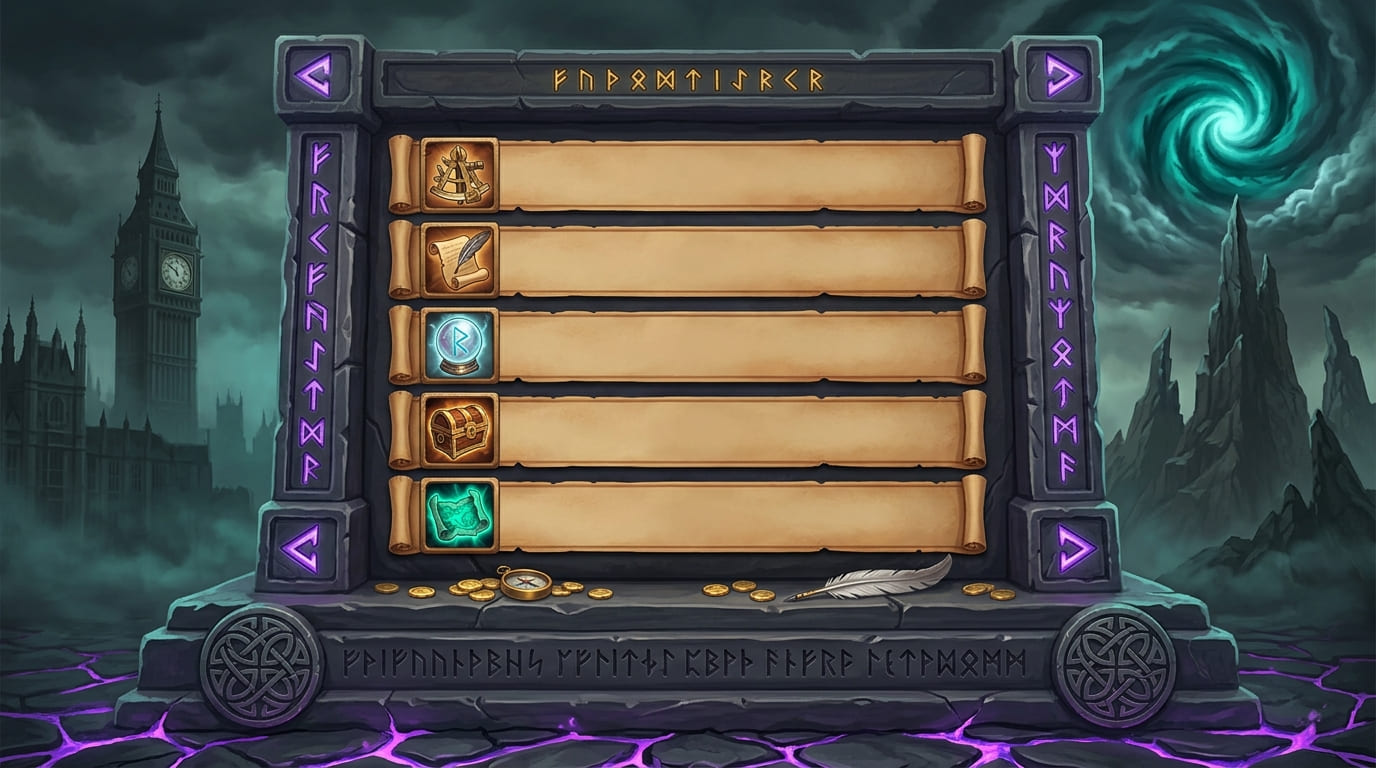
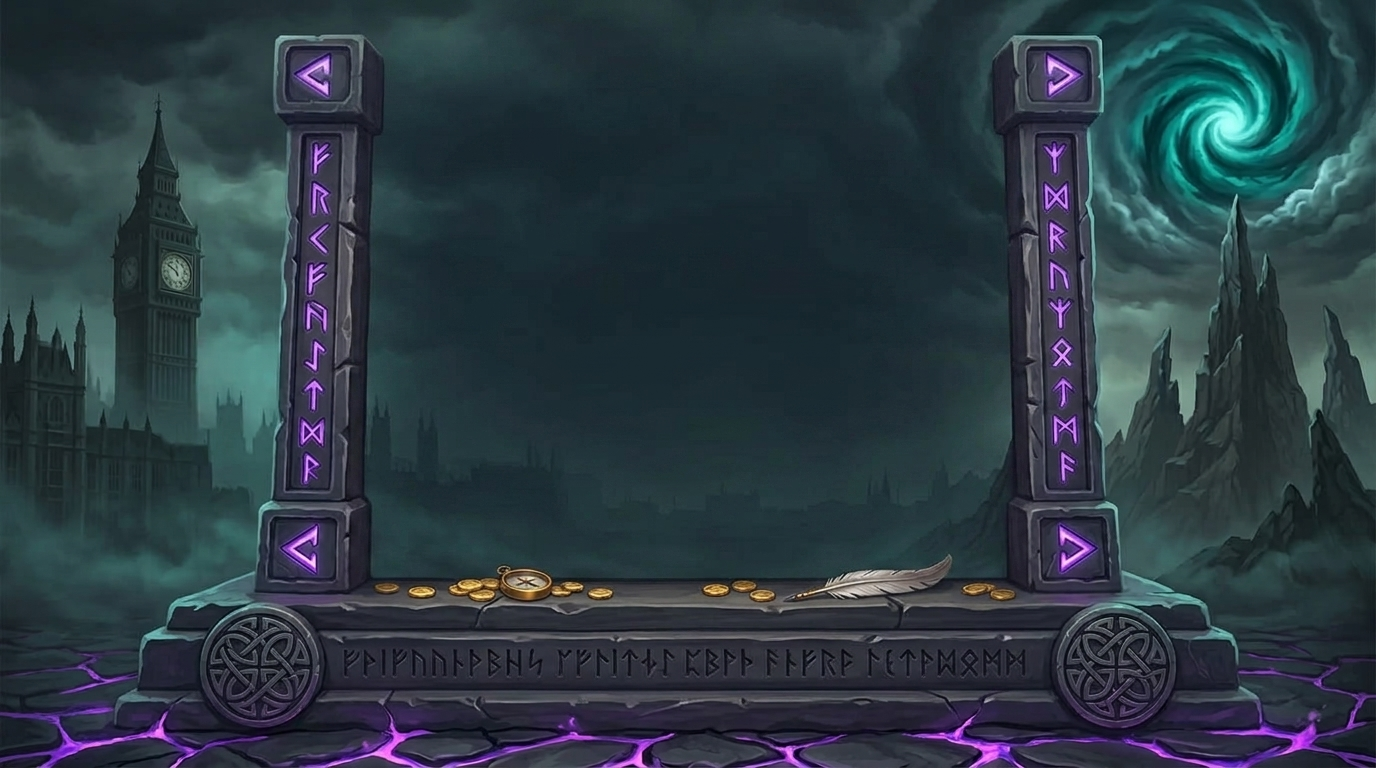
Moodle Codes screen update

Changed region(s): [[0.25, 0.0625, 0.75, 0.7812], [0.6875, 0.9375, 0.7188, 0.9688], [0.5625, 0.9688, 0.5938, 1.0]]

diff --git a/css/moodle-codes.css b/css/moodle-codes.css
@@ -99,41 +99,60 @@
 
 .mc-row {
     position: absolute;
-    /* left edge: just right of the icon, right edge: right side of parchment */
-    left: 40%;
-    right: 26%;
-    height: 9%; /* matches each parchment slot height */
+    left: 30%;
+    height: 13%;
+    width: 49%;
+    background: url('../images/Moodle_Codes_Screen/codes_ribbon.png') center / 100% 100% no-repeat;
     display: flex;
-    flex-direction: column;
-    justify-content: center;
-    gap: 2px;
-    padding: 0 1%;
+    align-items: center;
+    gap: 12px;
+    padding: 0 3% 0 9%; /* left padding makes room for the icon */
 }
 
 .mc-row--1 {
-    top: 13.5%;
-    left: 35.5%;
+    top: 15.5%;
+    left: 25.5%;
 }
 
 .mc-row--2 {
     top: 27.5%;
-    left: 35.5%;
+    left: 25.5%;
 }
 
 .mc-row--3 {
     top: 39.5%;
-    left: 35.5%;
+    left: 25.5%;
 }
 
 .mc-row--4 {
-    top: 52.5%;
-    left: 35.5%;
+    top: 51.5%;
+    left: 25.5%;
 }
 
 .mc-row--5 {
-    top: 64.5%;
-    left: 35.5%;
+    top: 63.5%;
+    left: 25.5%;
 }
+
+.mc-icon {
+    position: absolute;
+    left: 1%;
+    top: 50%;
+    transform: translateY(-50%);
+    width: 14%;
+    height: auto;
+    filter: drop-shadow(0 2px 4px rgba(0,0,0,0.5));
+}
+
+
+.mc-row-content {
+    display: flex;
+    flex-direction: column;
+    justify-content: center;
+    gap: 2px;
+    width: 100%;
+}
+
 
 /* ── Row title ("Code 1", "Code 2" …) ── */
 .mc-row-title {

diff --git a/js/codes.js b/js/codes.js
@@ -250,17 +250,19 @@ function _mcBuildRow(wc, total, achPct, totalAchTiers, unlockedAchTiers) {
         achBlock = _mcBuildReqBlock(achLabel, unlockedAchTiers, achRequired, achMet, 'ach');
     }
 
-
     const codeReveal = unlocked
         ? `<div class="mc-code-reveal mc-unlock-anim">${wc.code}</div>` : '';
 
-    // wc is the world code object — use its index from WORLD_CODES
     const rowIndex = WORLD_CODES.indexOf(wc) + 1;
+
     return `
     <div class="mc-row mc-row--${rowIndex}${unlocked ? ' mc-row--unlocked' : ''}">
-        <div class="mc-row-title">${tierName}${codeReveal}</div>
-        ${scoreBlock}
-        ${achBlock}
+        <img class="mc-icon" src="images/Moodle_Codes_Screen/icon_${rowIndex}.png" alt="">
+        <div class="mc-row-content">
+            <div class="mc-row-title">${tierName}${codeReveal}</div>
+            ${scoreBlock}
+            ${achBlock}
+        </div>
     </div>`;
 }
 